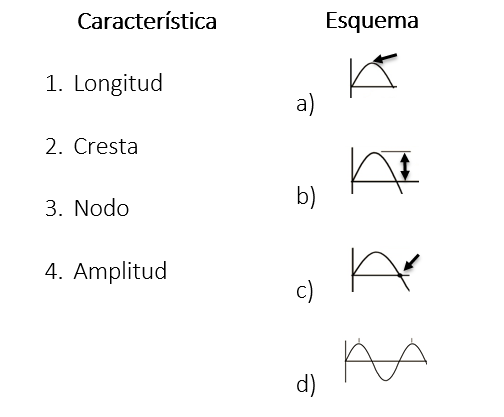
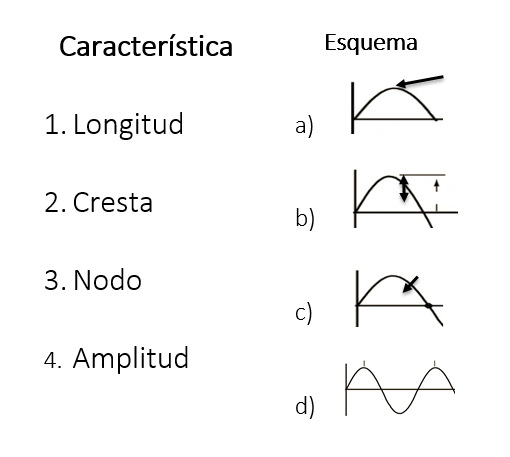
Versión local final

diff --git a/frontend/admin.js/estadisticas.js b/frontend/admin.js/estadisticas.js
@@ -277,17 +277,17 @@ btnPDFIndividual.addEventListener('click', () => {
         <head>
             <title>Acuse Individual - ${d.boleta}</title>
             <style>
-                body { font-family: 'Helvetica', Arial, sans-serif; color: #333; padding: 40px; }
-                .header { border-bottom: 3px solid #6c1d45; padding-bottom: 20px; margin-bottom: 30px; }
-                .header h1 { color: #6c1d45; margin: 0; font-size: 22px; text-transform: uppercase; }
-                .subtitle { color: #555; font-size: 14px; margin-top: 5px; }
+                body { font-family: 'Helvetica', Arial, sans-serif; color: #333; padding: 30px; }
+                .header { border-bottom: 3px solid #6c1d45; padding-bottom: 18px; margin-bottom: 25px; }
+                .header h1 { color: #6c1d45; margin: 0; font-size: 20px; text-transform: uppercase; }
+                .subtitle { color: #555; font-size: 12px; margin-top: 5px; }
                 .section-title { font-size: 16px; color: #6c1d45; border-bottom: 1px solid #ccc; padding-bottom: 5px; margin-top: 30px;}
-                table { width: 100%; border-collapse: collapse; margin-top: 15px; font-size: 14px; }
+                table { width: 100%; border-collapse: collapse; margin-top: 15px; font-size: 12px; }
                 th { background-color: #f3f4f6; color: #333; padding: 10px; text-align: left; border: 1px solid #ddd;}
                 td { padding: 10px; border: 1px solid #ddd; }
                 .anulado { color: white; background: #dc2626; padding: 2px 6px; border-radius: 4px; font-size: 11px; font-weight:bold;}
                 .footer { margin-top: 50px; text-align: center; font-size: 10px; color: #999; border-top: 1px solid #eee; padding-top: 10px;}
-                .student-info { background: #f9fafb; padding: 15px; border-left: 4px solid #6c1d45; margin-bottom: 20px;}
+                .student-info { background: #f9fafb; padding: 13px; border-left: 4px solid #6c1d45; margin-bottom: 15px;}
             </style>
         </head>
         <body>

diff --git a/backend/server.js b/backend/server.js
@@ -453,7 +453,7 @@ app.get('/api/examen/reporte-estadisticas', async (req, res) => {
                 porArea: { sociales: totalSociales, exactas: totalExactas, experimentales: totalExperimentales } 
             },
             promedios: { sociales: parseFloat(promSociales), exactas: parseFloat(promExactas), experimentales: parseFloat(promExperimentales) },
-            puntosDebiles: rendimientoMaterias.slice(0, 5) 
+            puntosDebiles: rendimientoMaterias.slice(0, 10) 
         });
     } catch (error) {
         res.status(500).json({ error: "Error interno" });
@@ -498,7 +498,7 @@ app.get('/api/examen/reporte-individual/:boleta', async (req, res) => {
             return { materia, porcentaje: parseFloat(porcentaje) };
         }).sort((a, b) => a.porcentaje - b.porcentaje); 
 
-        res.status(200).json({ boleta: usuario.boleta, curp: usuario.curp, areas: resultadosPorArea, puntosDebiles: rendimientoMaterias.slice(0, 5) });
+        res.status(200).json({ boleta: usuario.boleta, curp: usuario.curp, areas: resultadosPorArea, puntosDebiles: rendimientoMaterias.slice(0, 10) });
     } catch (error) {
         res.status(500).json({ error: "Error interno del servidor" });
     }
